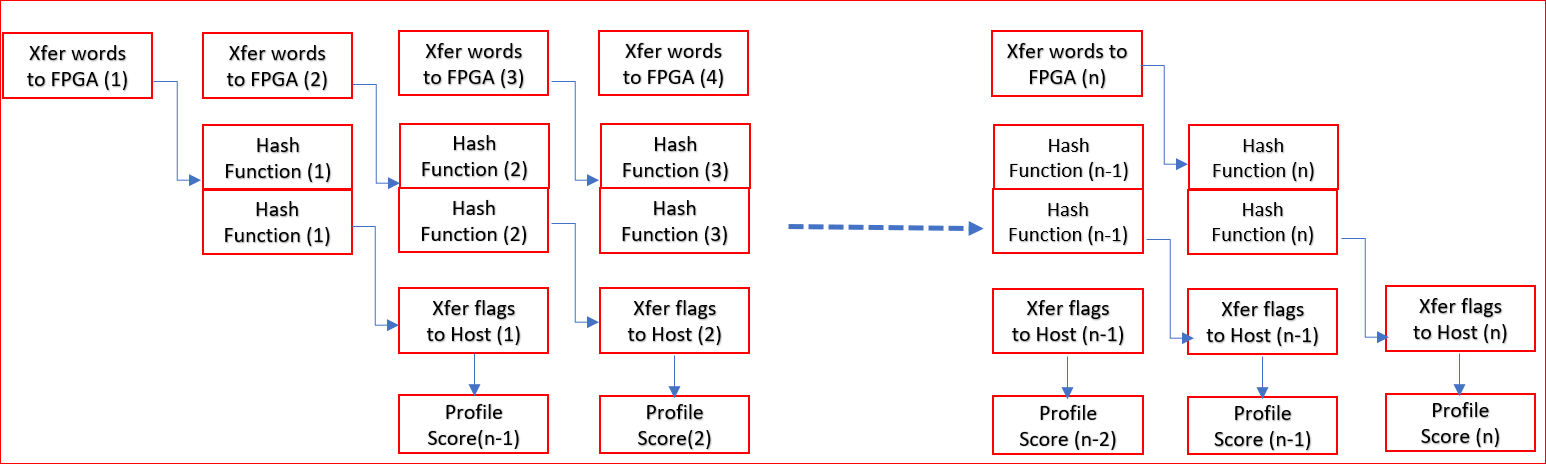
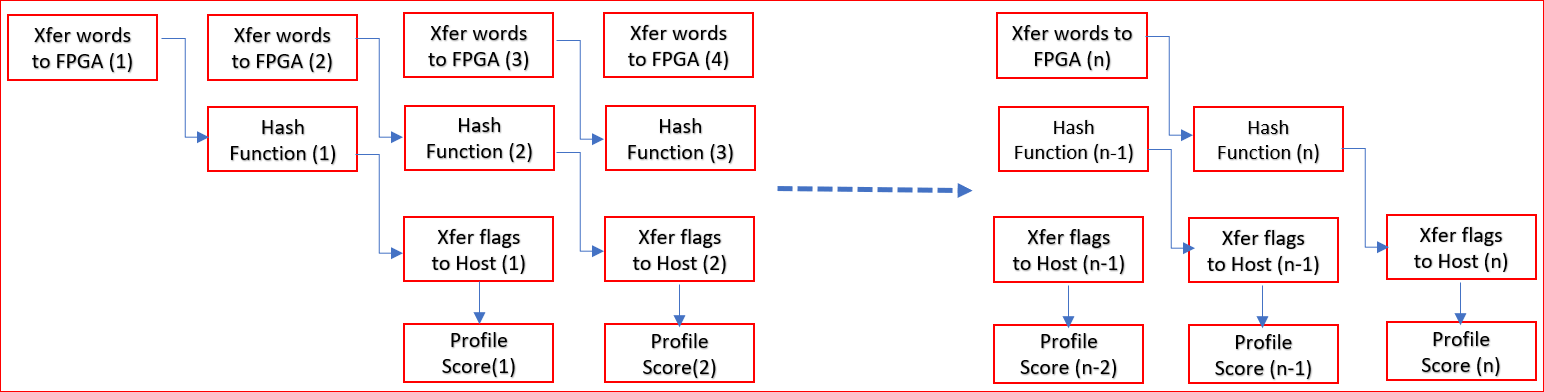
Snapshot added

diff --git a/docs/Bloom-Filter/3_architect-the-application.md b/docs/Bloom-Filter/3_architect-the-application.md
@@ -152,7 +152,7 @@ This code section is a a good candidate for FPGA as the hash function can run fa
 
 
 
-### Evaluating the second for loop in runCPU function that computes "Profile Score"
+### Evaluating the second for loop in runCPU function that computes "Compute Score"
 
 The code for computing the document score is shown below:
 
@@ -204,9 +204,6 @@ Software Version is about 345ms which is equivalent to 1400 MB/ 3450ms = approx 
 
 We have decided to keep only Compute Hash function in FPGA. This function takes about 3450ms in Software. 
 
-To achieve acceleration of 3GBps of this Applications, all 350M words needs to be processed in 1400MB/4GBps = 1400MB/3000MBps = 0.466s or 466 ms. 
-
-
 
 ### Determine the Maximum Achievable Throughput
 In most FPGA-accelerated systems, the maximum achievable throughput is limited by the PCIe® bus. The PCIe performance is influenced by many different aspects, such as motherboard, drivers, targeted shell, and transfer sizes. The Vitis core development kit provides a utility, `xbutil` and you can run the `xbutil dmatest` command to measure the maximum PCIe bandwidth it can achieve. The throughput on your design target cannot exceed this upper limit.
@@ -233,39 +230,35 @@ In a purely sequential application, performance bottlenecks can be easily identi
 ![](./images/Architect1.PNG) 
 
 For visualization perspective, code snippets reviwed above are used as function blocks.
-"Hash" block in hardware can be executed in parallel of couse at the expense of extra resources. Output of blocks "Hash" is fed to block "Profile Score" to calculate the score of each document. 
+"Hash" block in hardware can be executed in parallel of couse at the expense of extra resources. Output of blocks "Hash" is fed to block "Compute Score" to calculate the score of each document. 
 
 
 In above visualization, the performance of the application will be determined based on the slowest block . 
 
 In Software, 
   - Hash compute blocks are calculated for all the words up front and output flags are set in local memory. Each of the loops in Hash compute blocks are run sequentially.
-  - Once all hashes have computed, only then another for loop is called for all the documents to calculate the profile score. 
+  - Once all hashes have computed, only then another for loop is called for all the documents to calculate the Compute Score. 
 
 In FPGA, 
-  - We dont need to send all the words together to hash function and then calculate the profile score. In fact, we can send smaller sets of data and calculate hash functions.
-  - So we dont really need to calculate all the flags before starting to execute block "Profile Score". The advantage of this implemetation can also enable executing block "profile score" run in parallel to hash function as well. 
-  - Hashes and calculating profile scores codes can be executed in parallel. Based on above analysis, Hash functions are good candidate for computation on FPGA and Profile score calculation can be carried out on Host. Hash functions can compute the flags based on 2nd set of words blocks while profile score can be calculated on the 1st set of flags computed by Hash functions. We can take advantage of effectively running Hash block and profile block as parallel to further improve the performance. 
+  - We dont need to send all the words together to hash function and then calculate the Compute Score. In fact, we can send smaller sets of data and calculate hash functions.
+  - So we dont really need to calculate all the flags before starting to execute block "Compute Score". The advantage of this implemetation can also enable executing block "Compute Score" run in parallel to hash function as well. 
+  - Hashes and calculating Compute Scores codes can be executed in parallel. Based on above analysis, Hash functions are good candidate for computation on FPGA and Compute Score calculation can be carried out on Host. Hash functions can compute the flags based on 2nd set of words blocks while Compute Score can be calculated on the 1st set of flags computed by Hash functions. We can take advantage of effectively running Hash block and profile block as parallel to further improve the performance. 
 
 
 Running the aplication on FPGA also adds additional delay in tranferring the data from host to device memory and reading it back. The whole application time should be split and budgeted based on following
-1. Transferring document data of size 140MB from Host to device DDR using PCIe
-2. Compute the Hashes and calculate the profile score. 
-3. Transferring flags data of size 350MB from Device to Host using PCIe.
+1. Transferring document data of size 1400MB from Host to device DDR using PCIe. Using PCIe BW of 9GBps, approximate time for transfer = 1400MB/9G = 155ms
+2. Compute the Hashes on FPGA
+3. Transferring flags data of size 350MB from Device to Host using PCIe. Using PCIe BW of 9GBps, approximate time for transfer = 350MB/9G = 39ms. This data transfer can be carried out in parallel with computing hash functons.
+4. Calculate the Compute Score once all the flags are available from FPGA. This takes about 370ms on CPU 
 
-For 1, Using PCIe BW of 9GBps, approximate time for transfer = 1400MB/9G = 155ms
-
-For 2, Compute the Hashes can be carried on FPGA and Profile score calculations can be calculated on Software in parallel.
-
-For 3, Using PCIe BW of 9GBps, approximate time for transfer = 350MB/9G = 39ms. This data transfer can be carried out in parallel with computing hash functons.
-
-Transferring data of size 1400BM to FPGA device memory and tranferring data of size 350MB can have some overlap with the Hash compute. These are not small durations while comparing with the compute times of Hashes. But we don't need to send all the words data to FPGA to start with and tranferring data from device, compute and tranferring data back to host can also execute in parallel. 
-
-Since tranferring flags is relatively small compared to compute times, this time can be pretty much hidden with Hash compute. So the application can somewhat look like following : 
+So the application conceptually can look like following : 
 
 ![](./images/Architect2.PNG) 
 
-This leaves budget of 466ms - 155ms = 311ms for Kernel Computation. This is equivalent of 1400MB/311ms, about 4.5GBps. Thus Tgoal = 4.5GBps 
+The performance of the system will be determined by the slowest block of your system. In this case, we are performing Compute Score on CPU and it takes about 370ms. Even if Hashes can be computed hypothetical in no time, the overall application will take at least 370ms. This should be our goalpoast for achieving perforamnce. 
+
+
+In reality, transferring data from host to FPGA, Hashes compute and transferring data from FPGA to host will take some time and at the best we can hide within the time it takes to compute the score. We can establish target to about calculating the compute score in about 400ms which is equivalent of 1400MB/400ms = approx 3.5GBs
 
 
 ### Estimate Hardware Throughput without Parallelization
@@ -300,26 +293,24 @@ Each word in "Hash" function can be computed in parallel so muliple words can be
 
 **Parallelism Needed = Tgoal/Thw**
 
-**Parallelism Needed = 4.5GBps/600MBps** = approx 8 times. 
+**Parallelism Needed = 3.5GBps/600MBps** = approx 6 times. 
 
 
 ### Determine How Many Samples the Datapath Should be Processing in Parallel
 
 We must have about 8 "Murmurhash2" functions to meet the goal of 4 GBps. Each word calls this function twice and processing 4 words in parallel will use 8 of "Murmurhash2" function.
 
-The above theoratical calculations are based on idealistic scenario and memory bottlenecks are not considered. As the data will be accessed from host to DDR and read at the same time by Kenel, we should plan for process even more words to give extra margin for memory bottnecks. 
+The above theoratical calculations are based on idealistic scenario and memory bottlenecks are not considered. As the data will be accessed from host and Kenel at the same time, we should plan for process even more words to give extra margin for memory bottnecks. 
 
 If we could create kernel to process say 8 words in parallel, then we can be confident to achieve overall application performance of 2GBps. 
 
-Also, in the forthcoming sections we are going to implement the kernel and host code. First we will analyze the results by keeping hash functions and data transfer from host to kernel in sequential mode. Once we implment the kernel that matches our defined spec, we can then implement the parallelism of tranferring the data and computing the hash function by updating the host code. 
+Also, in the forthcoming sections we are going to implement the kernel and host code. First we will analyze the results by keeping hash functions on FPGA and Compute Score on CPU to be proecessed in sequential mode. Once we implment the kernel that matches our defined spec, we can introduce parallelism between Hashes and Compute Score functions and thus improve the performance
 
 ## Architectural spec for Kenel, TArget Performance, Interface Widths, Datapath Widths etc.
 
-At this stage of project, we have identified that we are using only using Hash Function as a kernel to reside on FPGA as an accelerator. This kernel must compute 8 words in parallel to achieve acceleration of 2GBps. 
-Using 8 words in parallel for 35M words will give Throughput of 8*4B*300MHz = 7.6GBps
+At this stage of project, we have identified that we are planning to have 8 words process the Hashes in parallel. 
 
 Based on methodology, we will also have data width accessing memory of size 512-bit to achieve DDR bandwidth such that memory doesn't become bottleneck here. 
-
 
 ## Next Step
 In this lab, you have seen how to profile an application and determine which parts are best suited for FPGA acceleration. We have extracted requirements of Hash function that must be process 8 words in parallel to achieve our accelration goal.
